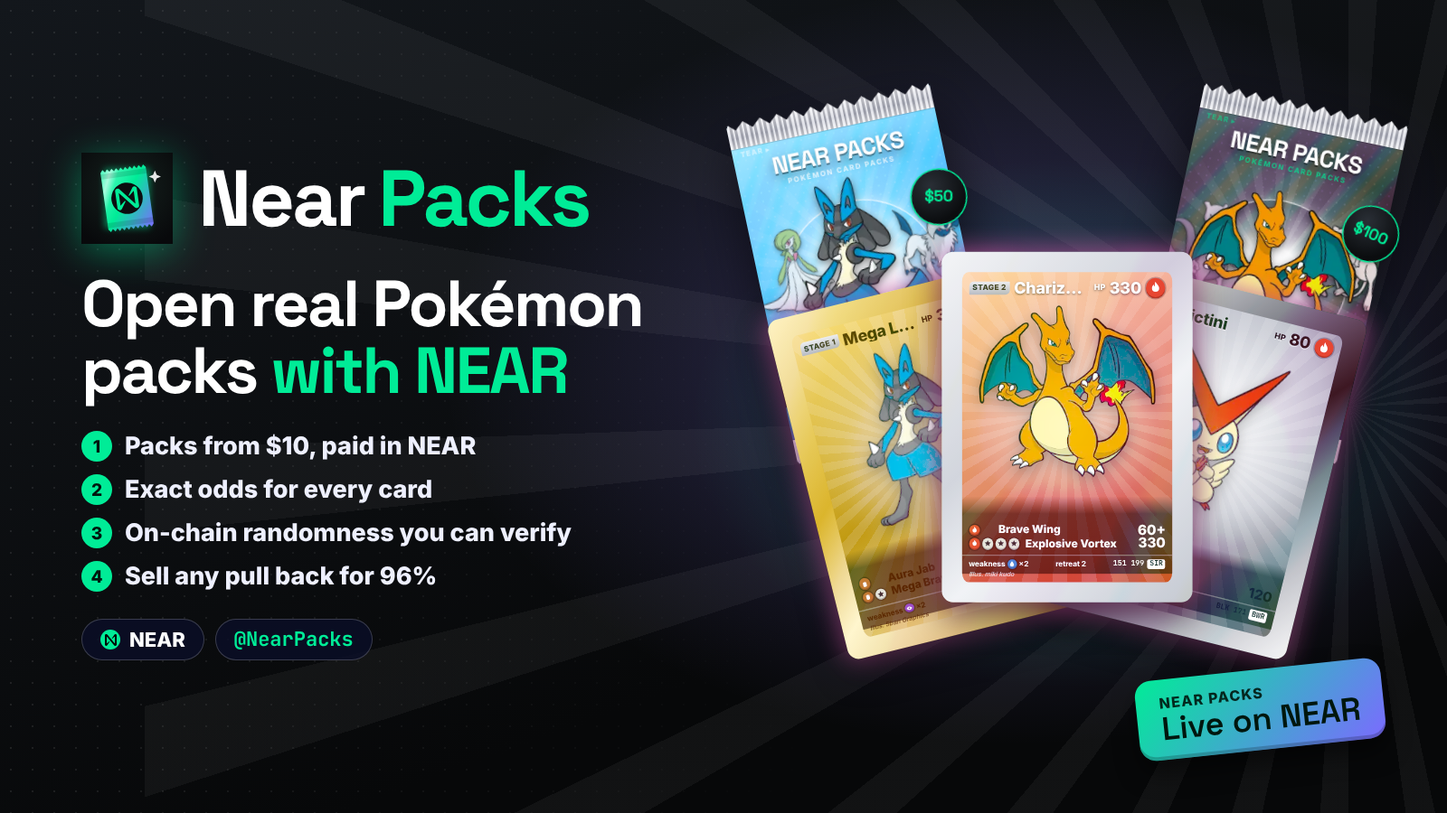
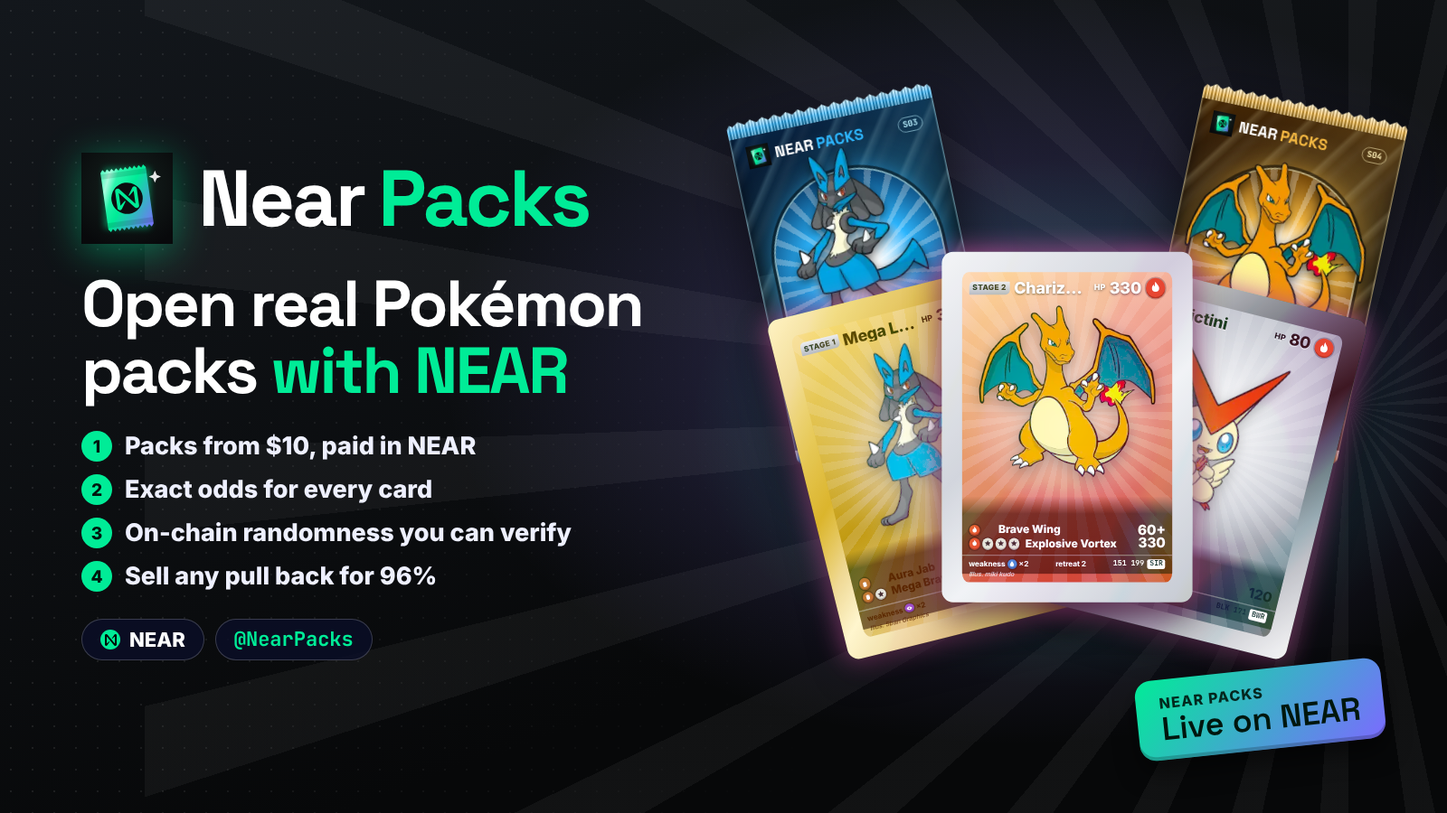
New booster pack art and no demo mode
- Packs: dark tier-coloured foil, Near Packs header, hero Pokémon breaking out of an arched window, big tier name, gem pips. Legend is now gold.
- Removed every demo/preview text, the demo wallet and sample ranks; without the server packs stay closed.

Claude-Session: https://claude.ai/code/session_01CKizwNUuLhvCqaYYh9hKp6

Changed region(s): [[0.5, 0.0933, 0.6875, 0.4044], [0.8125, 0.0933, 0.9688, 0.4044]]

diff --git a/js/app.js b/js/app.js
@@ -54,8 +54,8 @@
     var frac = String(v % unit).padStart(24, '0').slice(0, 4).replace(/0+$/, '');
     return (v / unit).toLocaleString('en-US') + (frac ? '.' + frac : '');
   }
-  function payReady() { return store.mode !== 'live' || store.isDev() || (store.game && store.game.ready); }
-  function buybackReady() { return store.mode !== 'live' || store.isDev() || (store.game && store.game.ready && store.game.buyback); }
+  function payReady() { return store.mode === 'live' && (store.isDev() || (store.game && store.game.ready)); }
+  function buybackReady() { return store.mode === 'live' && (store.isDev() || (store.game && store.game.ready && store.game.buyback)); }
   function seriesOf(card) { return D.seriesById[card.series]; }
 
   var COIN = '<span class="coin" aria-hidden="true">N</span>';
@@ -180,16 +180,16 @@
     return face.replace(/^<div class="/, '<div class="' + cls).slice(0, -6) + extras + '</div>';
   }
 
-  // Booster wrapper look per pack tier: foil colours, hero Pokémon and two companions behind it.
+  // Booster wrapper look per pack tier: foil colours and the hero Pokémon that breaks out of the window.
   var PACK_LOOK = {
-    starter: { hero: 25, side: [1, 7], foil: ['#7dffcb', '#00ec97', '#00744a'], ink: '#00170e', stars: 1, label: 'Starter' },
-    rare: { hero: 94, side: [92, 93], foil: ['#cfc7ff', '#8b7bff', '#2c1f86'], ink: '#ffffff', stars: 2, label: 'Rare' },
-    elite: { hero: 448, side: [282, 359], foil: ['#a8ecff', '#2db7ff', '#08376a'], ink: '#ffffff', stars: 3, label: 'Elite' },
-    legend: { hero: 6, side: [150, 151], foil: ['#5a6270', '#1b1f25', '#050607'], ink: '#00ec97', stars: 4, label: 'Legend' }
+    starter: { hero: 25, foil: ['#7dffcb', '#00ec97', '#004d31'], gems: 1, label: 'Starter', no: '01' },
+    rare: { hero: 94, foil: ['#d9d2ff', '#8b7bff', '#241866'], gems: 2, label: 'Rare', no: '02' },
+    elite: { hero: 448, foil: ['#b9f0ff', '#2db7ff', '#062d57'], gems: 3, label: 'Elite', no: '03' },
+    legend: { hero: 6, foil: ['#fff0b8', '#f5b942', '#5a3200'], gems: 4, label: 'Legend', no: '04' }
   };
-  // Zig-zag crimp along the top and bottom of the wrapper.
+  // Fine serrated seal along the top and bottom edge.
   var CRIMP = (function () {
-    var pts = [], teeth = 24, depth = 2.2;
+    var pts = [], teeth = 34, depth = 1.1;
     for (var i = 0; i <= teeth; i++) pts.push((i * 100 / teeth).toFixed(2) + '% ' + (i % 2 ? depth : 0) + '%');
     for (var j = teeth; j >= 0; j--) pts.push((j * 100 / teeth).toFixed(2) + '% ' + (100 - (j % 2 ? depth : 0)) + '%');
     return 'polygon(' + pts.join(',') + ')';
@@ -197,26 +197,19 @@
 
   function packArtHTML(p) {
     var look = PACK_LOOK[p.id] || PACK_LOOK.starter;
-    var stars = '';
-    for (var i = 0; i < 4; i++) stars += '<i class="' + (i < look.stars ? 'on' : '') + '">★</i>';
-    return '<div class="booster" style="--f1:' + look.foil[0] + ';--f2:' + look.foil[1] + ';--f3:' + look.foil[2] + ';--ink:' + look.ink + '">' +
+    var gems = '';
+    for (var i = 0; i < 4; i++) gems += '<i class="' + (i < look.gems ? 'on' : '') + '"></i>';
+    return '<div class="booster np-' + p.id + '" style="--f1:' + look.foil[0] + ';--f2:' + look.foil[1] + ';--f3:' + look.foil[2] + '">' +
       '<div class="bw" style="clip-path:' + CRIMP + '">' +
-        '<div class="bw-rays"></div><div class="bw-holo"></div>' +
-        '<div class="bw-crimp top"></div><div class="bw-crimp bottom"></div>' +
-        '<div class="bw-tear">TEAR ▸</div>' +
-        '<div class="bw-logo"><span>NEAR PACKS</span><small>Pokémon card packs</small></div>' +
-        '<div class="bw-stage">' +
-          '<span class="bw-ring"></span>' +
-          '<img class="bw-side l" src="' + artUrl(look.side[0]) + '" alt="" decoding="async">' +
-          '<img class="bw-side r" src="' + artUrl(look.side[1]) + '" alt="" decoding="async">' +
-          '<img class="bw-hero" src="' + artUrl(look.hero) + '" alt="" decoding="async">' +
-        '</div>' +
-        '<div class="bw-ribbon"><span>' + esc(look.label) + ' Pack</span></div>' +
-        '<div class="bw-stars">' + stars + '</div>' +
-        '<div class="bw-foot">1 CARD · EV ' + usd(p.ev) + '</div>' +
+        '<div class="bw-foil"></div><div class="bw-mono">N</div>' +
+        '<div class="bw-seal top"></div><div class="bw-seal bottom"></div>' +
+        '<div class="bw-head"><img src="assets/brand/nearpacks-icon.svg" alt=""><span>NEAR<b>PACKS</b></span><em>S' + look.no + '</em></div>' +
+        '<div class="bw-window"><span class="bw-rays"></span><span class="bw-orb"></span></div>' +
+        '<img class="bw-hero" src="' + artUrl(look.hero) + '" alt="" decoding="async">' +
+        '<div class="bw-name"><small>Pokémon card pack</small><span>' + esc(look.label) + '</span></div>' +
+        '<div class="bw-meta"><span class="bw-gems">' + gems + '</span><span>1 CARD · ' + usd(p.usd) + '</span></div>' +
         '<div class="bw-sheen"></div>' +
       '</div>' +
-      '<div class="bw-price"><b>' + usd(p.usd) + '</b></div>' +
     '</div>';
   }
 
@@ -276,13 +269,12 @@
         return '<a href="' + link(n[0]) + '"' + (ui.route === n[0] ? ' aria-current="page"' : '') + '>' + n[1] + (n[0] === 'vault' && st.vault.length ? ' <span class="nav-count num">' + st.vault.length + '</span>' : '') + '</a>';
       }).join('') + '</nav>' : '<nav class="nav" aria-label="Main"><a href="' + link('docs') + '"' + (ui.route === 'docs' ? ' aria-current="page"' : '') + '>Docs</a></nav>';
     var right = u
-      ? '<div class="balance" title="' + D.TOKEN + ' in your wallet">' + COIN + '<span class="num">' + (store.mode === 'live' ? (ui.balance ? fmtToken(ui.balance.amount, ui.balance.decimals) : '—') : 'Demo') + '</span><span class="muted bal-label">' + D.TOKEN + '</span></div>' +
+      ? '<div class="balance" title="' + D.TOKEN + ' in your wallet">' + COIN + '<span class="num">' + (store.mode === 'live' ? (ui.balance ? fmtToken(ui.balance.amount, ui.balance.decimals) : '—') : '—') + '</span><span class="muted bal-label">' + D.TOKEN + '</span></div>' +
         '<div class="user-chip" title="' + esc(u.address) + '">' + CHAIN_BADGE[u.chain] + '<span class="uh num">' + esc(u.name) + '</span></div>' +
         '<button class="btn btn-sm btn-ghost" data-act="logout">Log out</button>'
       : '<button class="btn btn-gold btn-sm" data-act="connect">' + WALLET_SVG + 'Connect wallet</button>';
     return '<header class="topbar"><div class="wrap">' +
       '<a class="brand" href="' + link('') + '"><img class="brand-icon" src="assets/brand/nearpacks-icon.svg" alt="" width="36" height="36"><span class="brand-name">Near<b>Packs</b></span></a>' +
-      (store.mode === 'local' ? '<span class="mode-pill" title="No server connected. Progress is saved in this browser only.">Demo</span>' : '') +
       nav + '<div class="top-right">' + right + '</div></div></header>';
   }
 
@@ -357,7 +349,6 @@
         '<div class="pull-info">' +
           '<div><div class="eyebrow">Pokémon TCG · ' + p.pool.length + ' cards from ' + usd(p.min) + ' to ' + usd(p.top[0].usd) + ' · ' + (st.pulls[p.id] || 0) + ' opened</div><h2>' + esc(p.name) + '</h2></div>' +
           '<div class="pull-buttons">' + buttons + '</div>' +
-          (store.mode === 'local' ? '<p class="demo-note">Preview: packs open free here and use browser randomness. On the live site you pay in NEAR and the randomness is drawn on chain in that payment.</p>' : '') +
           packStatsHTML(p) +
           '<div><div class="eyebrow" style="margin-bottom:10px">Top hits · <button class="linkish" data-act="pack-odds" data-id="' + p.id + '">See all top tier</button></div><div class="chase-row">' +
             p.top.slice(0, 6).map(function (c) { return slotHTML(c, { chance: chanceOf(p, c.id) }); }).join('') + '</div></div>' +
@@ -399,27 +390,20 @@
   }
 
   /* ---------- leaderboard ---------- */
-  var SAMPLE = [
-    ['near', 'charcollector.near', 2840, 41], ['near', 'holohunter.near', 1915, 33], ['near', '9f2c…a71e', 1290, 26],
-    ['near', 'packripper.tg', 948, 21], ['near', 'mewtwo.near', 612, 14], ['near', 'sirseeker.near', 402, 9],
-    ['near', 'b04d…11c9', 215, 6], ['near', 'gengar.near', 64, 3]
-  ];
   function ranksHTML() {
     var st = store.state;
     var me = { name: st.user.name, chain: st.user.chain, score: engine.vaultValue(st), cards: st.vault.length, me: true };
-    var rows, isSample = false;
+    var rows;
     if (ui.leaderboard) {
       rows = ui.leaderboard.map(function (r) { return { name: r.name, chain: r.chain, score: r.score, cards: r.cards, me: r.address === st.user.address && r.chain === st.user.chain }; });
     } else {
-      isSample = true;
-      rows = SAMPLE.map(function (r) { return { name: r[1], chain: r[0], score: r[2], cards: r[3], sample: true }; }).concat([me]);
+      rows = [me];
     }
     rows.sort(function (a, b) { return b.score - a.score; });
     return '<section class="section-head"><div><div class="eyebrow">Vault value</div><h2 class="page-title">Ranks</h2></div><span class="muted small">Ranked by the estimated value of the cards each collector holds</span></section>' +
-      (isSample ? '<p class="demo-note">Demo mode: rows marked Sample are placeholders. With the server running, this table lists real collectors.</p>' : '') +
       '<section class="panel table-scroll" style="padding:8px 12px"><table class="lb"><thead><tr><th>#</th><th>Collector</th><th class="num">Cards</th><th class="num">Vault value</th></tr></thead><tbody>' +
       rows.map(function (r, i) {
-        return '<tr' + (r.me ? ' class="me"' : '') + '><td class="rank">' + (i + 1) + '</td><td><div class="who">' + CHAIN_BADGE[r.chain] + '<div><b class="num">' + esc(r.name) + '</b>' + (r.me ? ' <span class="muted">(you)</span>' : '') + (r.sample ? ' <span class="sample">Sample</span>' : '') + '<div class="muted small">' + A.CHAINS[r.chain].name + '</div></div></div></td>' +
+        return '<tr' + (r.me ? ' class="me"' : '') + '><td class="rank">' + (i + 1) + '</td><td><div class="who">' + CHAIN_BADGE[r.chain] + '<div><b class="num">' + esc(r.name) + '</b>' + (r.me ? ' <span class="muted">(you)</span>' : '') + '<div class="muted small">' + A.CHAINS[r.chain].name + '</div></div></div></td>' +
           '<td class="num">' + r.cards + '</td><td class="num"><b>' + usd(r.score) + '</b></td></tr>';
       }).join('') + '</tbody></table></section>';
   }
@@ -850,7 +834,6 @@
       '<p class="muted small">Near Packs runs on NEAR. Sign one message to prove you own the wallet. It does not send a transaction or cost any fee.</p>' +
       '<section><div class="eyebrow">' + CHAIN_BADGE.near + ' NEAR</div><ul class="wallet-list">' + near + '</ul></section>' +
       '<div class="err" id="connect-err" role="alert"></div>' +
-      (store.mode === 'local' ? '<div class="demo-wallet"><span class="muted small">No wallet in this browser? This preview can use a throwaway demo address.</span><button class="btn btn-sm" data-act="wallet-demo">Use demo wallet</button></div>' : '') +
       '<div class="modal-actions"><button type="button" class="btn btn-ghost" data-act="close-modal">Cancel</button></div>' +
       '</div></div>';
   }
@@ -929,7 +912,7 @@
   }
 
   function rngSourceName(user) {
-    if (store.mode !== 'live') return 'Demo randomness';
+    if (store.mode !== 'live') return 'On-chain randomness';
     if (store.isDev()) return 'Dev opening · ' + user.address;
     return 'Paid on NEAR · ' + D.GAME_ACCOUNT;
   }
@@ -1017,7 +1000,7 @@
     if (!proof) return '';
     var check = engine.cardsFromRandomness(packId, count, proof.randomness, proof.seed).map(function (c) { return c.id; });
     var ok = ids.length === check.length && ids.every(function (id, i) { return id === check[i]; });
-    var src = proof.source === 'near-transfer' ? 'Paid to ' + (proof.ref || D.TREASURY) + ' · block randomness' : proof.source === 'nearpacks-near' || proof.source === 'near-rng' ? 'Paid on NEAR · ' + (proof.ref || D.GAME_ACCOUNT) : proof.source === 'dev' ? 'Dev opening · server randomness, not paid' : proof.source === 'orao-vrf' ? 'ORAO VRF · Solana' : 'Demo randomness (off-chain preview)';
+    var src = proof.source === 'near-transfer' ? 'Paid to ' + (proof.ref || D.TREASURY) + ' · block randomness' : proof.source === 'nearpacks-near' || proof.source === 'near-rng' ? 'Paid on NEAR · ' + (proof.ref || D.GAME_ACCOUNT) : proof.source === 'dev' ? 'Dev opening · server randomness, not paid' : proof.source === 'orao-vrf' ? 'ORAO VRF · Solana' : 'Off-chain randomness';
     var ex = W.explorer(proof, CFG.nearNetwork);
     var links = ex ? (ex.tx ? '<a href="' + esc(ex.tx) + '" target="_blank" rel="noopener">Transaction on ' + ex.label + '</a>' : '') +
       (ex.account ? '<a href="' + esc(ex.account) + '" target="_blank" rel="noopener">' + (proof.source === 'near-transfer' ? 'Treasury' : 'Interaction wallet') + '</a>' : '') : '';
@@ -1047,7 +1030,7 @@
       var direct = !!(pay && pay.method === 'transfer');
       var steps = [
         [o.status === 'wallet' || o.status === 'checking' ? 'active' : o.status === 'error' ? 'error' : 'done',
-          live ? 'Pay ' + usd(p.usd * o.count) + (pay && pay.deposit ? ' = ' + fmtNear(pay.deposit) + ' NEAR' : ' in NEAR') : store.isDev() ? 'Dev wallet: no payment needed' : 'Demo: nothing is paid in this preview',
+          live ? 'Pay ' + usd(p.usd * o.count) + (pay && pay.deposit ? ' = ' + fmtNear(pay.deposit) + ' NEAR' : ' in NEAR') : store.isDev() ? 'Dev wallet: no payment needed' : 'Pay in NEAR',
           live ? (o.status === 'checking' ? 'Checking the chain for your payment…' : 'Approve one ' + (direct ? 'transfer to ' + esc(pay.receiver) : 'transaction to ' + D.GAME_ACCOUNT) + ' in ' + esc(walletName) + ' (plus a tiny gas fee). Price from the live NEAR market.') : store.isDev() ? 'Packs opened by ' + esc(u.address) + ' are free and recorded as dev openings' : 'This preview is not connected to a chain'],
         [o.status === 'waiting' || o.status === 'slow' ? 'active' : 'todo', 'Randomness drawn on chain',
           o.status === 'slow' ? 'Taking longer than usual. Your pack is saved; check again in a moment.' : (live ? (direct ? 'From the hash of the block that includes your payment' : 'The ' + D.GAME_ACCOUNT + ' contract draws it in the same transaction') : store.isDev() ? 'Server randomness' : 'Browser randomness')]
@@ -1135,7 +1118,7 @@
   function closeOpening() { ui.opening = null; renderOverlay(); render(); }
 
   function soldToast(r) {
-    toast('Sold back for ' + usd(r.usd) + (r.payout && r.payout.amount ? ', paid in ' + D.TOKEN + ' to your wallet.' : r.payout && r.payout.dev ? ' (dev wallet, recorded only).' : ' (demo, nothing paid).'));
+    toast('Sold back for ' + usd(r.usd) + (r.payout && r.payout.amount ? ', paid in ' + D.TOKEN + ' to your wallet.' : r.payout && r.payout.dev ? ' (dev wallet, recorded only).' : '.'));
     refreshBalance();
   }
   function sell(uids, onDone) {
@@ -1164,7 +1147,6 @@
     switch (act) {
       case 'connect': openConnect(); break;
       case 'wallet-near': signIn('near', W.nearSigner(id, el.getAttribute('data-name')), el.getAttribute('data-name')); break;
-      case 'wallet-demo': signIn('near', W.demoSigner(), 'Demo wallet'); break;
       case 'close-modal': if (e.target === el || el.tagName === 'BUTTON') closeModal(); break;
       case 'logout': store.logout().then(function () { toast('Logged out.'); }); break;
       case 'doc-jump':

diff --git a/css/style.css b/css/style.css
@@ -524,54 +524,53 @@ footer .wrap { display: flex; justify-content: space-between; gap: 12px; flex-wr
 }
 
 /* ---------- Booster wrapper (pack cover) ---------- */
-.booster { --f1: #ffe14d; --f2: #f7a51c; --f3: #c4560f; --ink: #3a1d00; position: relative; width: 100%; max-width: 100%; aspect-ratio: 5 / 8.4; container-type: inline-size; filter: drop-shadow(0 14px 22px rgba(0, 0, 0, 0.55)); }
-.bw { position: absolute; inset: 0; overflow: hidden; border-radius: 3% / 2%;
+.booster { --f1: #7dffcb; --f2: #00ec97; --f3: #004d31; position: relative; width: 100%; max-width: 100%; aspect-ratio: 5 / 8.4; container-type: inline-size; filter: drop-shadow(0 14px 22px rgba(0, 0, 0, 0.6)); }
+.bw { position: absolute; inset: 0; overflow: hidden; border-radius: 4% / 2.4%;
   background:
-    radial-gradient(120% 60% at 50% 46%, color-mix(in srgb, var(--f1) 70%, #fff) 0%, transparent 55%),
-    linear-gradient(165deg, var(--f1) 0%, var(--f2) 42%, var(--f3) 100%);
+    radial-gradient(90% 50% at 50% 42%, color-mix(in srgb, var(--f2) 55%, transparent), transparent 70%),
+    linear-gradient(170deg, color-mix(in srgb, var(--f3) 85%, #000) 0%, #07080a 48%, color-mix(in srgb, var(--f3) 75%, #000) 100%);
+  box-shadow: inset 0 0 0 0.6cqi color-mix(in srgb, var(--f1) 45%, transparent), inset 0 0 6cqi rgba(0, 0, 0, 0.6);
 }
-.bw-rays { position: absolute; inset: 0; background: repeating-conic-gradient(from 0deg at 50% 50%, rgba(255, 255, 255, 0.16) 0 5deg, transparent 5deg 13deg); -webkit-mask-image: radial-gradient(circle at 50% 50%, #000 15%, transparent 72%); mask-image: radial-gradient(circle at 50% 50%, #000 15%, transparent 72%); }
-.bw-holo { position: absolute; inset: 0; mix-blend-mode: color-dodge; opacity: 0.35;
+/* holographic diagonal foil, tinted by tier */
+.bw-foil { position: absolute; inset: 0; opacity: 0.55; mix-blend-mode: screen;
   background:
-    repeating-linear-gradient(120deg, rgba(255, 0, 150, 0.35) 0 3%, rgba(0, 220, 255, 0.35) 6%, rgba(255, 240, 0, 0.35) 9%, rgba(0, 255, 140, 0.35) 12%, rgba(255, 0, 150, 0.35) 15%),
-    radial-gradient(rgba(255, 255, 255, 0.5) 0.6px, transparent 0.8px) 0 0 / 4% 2.5%;
+    repeating-linear-gradient(125deg, transparent 0 4%, color-mix(in srgb, var(--f1) 30%, transparent) 5%, transparent 7%, rgba(255, 255, 255, 0.07) 9%, transparent 11%),
+    linear-gradient(125deg, transparent 20%, color-mix(in srgb, var(--f2) 35%, transparent) 50%, transparent 80%);
 }
-.bw-crimp { position: absolute; left: 0; right: 0; height: 7.5%; z-index: 3;
+.bw-mono { position: absolute; z-index: 1; left: -8%; bottom: 6%; font: 700 110cqi/0.8 var(--f-display); color: color-mix(in srgb, var(--f1) 7%, transparent); letter-spacing: -0.06em; pointer-events: none; }
+.bw-seal { position: absolute; left: 0; right: 0; height: 4.6%; z-index: 4;
   background:
-    repeating-linear-gradient(90deg, rgba(255, 255, 255, 0.55) 0 1.2%, rgba(0, 0, 0, 0.18) 1.2% 2.4%),
-    linear-gradient(180deg, #f4f4f8, #b9bccb 60%, #e9eaf0);
-  box-shadow: 0 0 0 1px rgba(0, 0, 0, 0.15);
+    repeating-linear-gradient(90deg, rgba(255, 255, 255, 0.35) 0 0.8%, rgba(0, 0, 0, 0.25) 0.8% 1.6%),
+    linear-gradient(180deg, color-mix(in srgb, var(--f1) 80%, #fff), var(--f2) 55%, color-mix(in srgb, var(--f2) 70%, #000));
 }
-.bw-crimp.top { top: 0; }
-.bw-crimp.bottom { bottom: 0; }
-.bw-tear { position: absolute; z-index: 4; top: 8.6%; left: 4%; font: 900 clamp(4px, 3.4cqi, 9px)/1 var(--f-body); letter-spacing: 0.14em; color: var(--ink); opacity: 0.55; }
-.bw-logo { position: absolute; z-index: 4; top: 11%; left: 0; right: 0; display: grid; justify-items: center; gap: 0.2em; }
-.bw-logo span { font: 700 clamp(11px, 11.5cqi, 36px)/1 var(--f-display); letter-spacing: -0.02em; color: #fff; text-shadow: 0 0.06em 0 rgba(0, 0, 0, 0.35), 0 0.2em 0.5em rgba(0, 0, 0, 0.35); }
-.bw-logo small { font: 700 clamp(4px, 3.4cqi, 10px)/1 var(--f-body); letter-spacing: 0.2em; text-transform: uppercase; color: var(--ink); opacity: 0.75; }
-.bw-stage { position: absolute; z-index: 2; left: 0; right: 0; top: 24%; height: 52%; }
-.bw-ring { position: absolute; left: 50%; top: 52%; width: 74%; aspect-ratio: 1; transform: translate(-50%, -50%); border-radius: 50%;
-  background: radial-gradient(circle, rgba(255, 255, 255, 0.95) 0 28%, rgba(255, 255, 255, 0.35) 46%, transparent 66%);
-  box-shadow: 0 0 0 0.6cqi rgba(255, 255, 255, 0.55), 0 0 6cqi rgba(255, 255, 255, 0.6);
+.bw-seal.top { top: 0; }
+.bw-seal.bottom { bottom: 0; }
+.bw-head { position: absolute; z-index: 5; top: 7.5%; left: 7%; right: 7%; display: flex; align-items: center; gap: 2.4cqi; }
+.bw-head img { width: 11cqi; height: 11cqi; flex: none; }
+.bw-head span { font: 700 clamp(7px, 7.4cqi, 22px)/1 var(--f-display); letter-spacing: 0.02em; color: #fff; }
+.bw-head span b { color: var(--f2); margin-left: 0.18em; font-weight: 700; }
+.bw-head em { margin-left: auto; font: 800 clamp(5px, 4cqi, 11px)/1 var(--f-mono); font-style: normal; color: var(--f1); padding: 1.2cqi 2cqi; border: 0.4cqi solid color-mix(in srgb, var(--f1) 55%, transparent); border-radius: 99px; }
+.bw-window { position: absolute; z-index: 2; left: 10%; right: 10%; top: 20%; height: 47%; border-radius: 40cqi 40cqi 6cqi 6cqi; overflow: hidden;
+  background: radial-gradient(70% 60% at 50% 55%, color-mix(in srgb, var(--f1) 70%, #fff), var(--f2) 45%, var(--f3) 100%);
+  box-shadow: 0 0 0 0.8cqi color-mix(in srgb, var(--f1) 70%, transparent), 0 0 0 2.2cqi rgba(0, 0, 0, 0.55), 0 0 10cqi color-mix(in srgb, var(--f2) 60%, transparent);
 }
-.bw-hero { position: absolute; left: 50%; top: 50%; width: 82%; max-height: 108%; object-fit: contain; transform: translate(-50%, -50%); filter: drop-shadow(0 1.6cqi 1.8cqi rgba(0, 0, 0, 0.45)); z-index: 2; }
-.bw-side { position: absolute; top: 18%; width: 38%; max-height: 60%; object-fit: contain; opacity: 0.85; filter: drop-shadow(0 1cqi 1.2cqi rgba(0, 0, 0, 0.35)) saturate(0.9); z-index: 1; }
-.bw-side.l { left: -4%; transform: rotate(-10deg); }
-.bw-side.r { right: -4%; transform: rotate(10deg) scaleX(-1); }
-.bw-ribbon { position: absolute; z-index: 4; left: -3%; right: -3%; top: 75%; display: grid; place-items: center; padding: 1.8% 0 2.2%;
-  background: linear-gradient(90deg, #0a0b0d, #1a1d22 50%, #0a0b0d); box-shadow: 0 0.8cqi 1.6cqi rgba(0, 0, 0, 0.45), inset 0 0.3cqi 0 rgba(255, 255, 255, 0.12); }
-.bw-ribbon span { font: 700 clamp(10px, 9cqi, 28px)/1 var(--f-display); letter-spacing: -0.01em; text-transform: uppercase;
-  background: linear-gradient(90deg, var(--f1), #ffffff 50%, var(--f1)); -webkit-background-clip: text; background-clip: text; color: transparent; }
-.bw-stars { position: absolute; z-index: 4; top: 84.5%; left: 0; right: 0; display: flex; justify-content: center; gap: 1.5%; font-size: clamp(6px, 6cqi, 16px); line-height: 1; }
-.bw-stars i { font-style: normal; color: rgba(0, 0, 0, 0.25); }
-.bw-stars i.on { color: #fff; text-shadow: 0 0 1.4cqi rgba(255, 255, 255, 0.9), 0 0.2cqi 0 rgba(0, 0, 0, 0.35); }
-.bw-foot { position: absolute; z-index: 4; bottom: 9%; left: 0; right: 0; text-align: center; font: 800 clamp(4px, 3.8cqi, 10px)/1 var(--f-mono); letter-spacing: 0.08em; color: var(--ink); }
-.bw-sheen { position: absolute; inset: 0; z-index: 5; pointer-events: none; mix-blend-mode: overlay;
-  background: linear-gradient(105deg, transparent 30%, rgba(255, 255, 255, 0.75) 44%, transparent 56%) -150% 0 / 250% 100% no-repeat;
+.bw-rays { position: absolute; inset: -20%; background: repeating-conic-gradient(from 0deg at 50% 60%, rgba(255, 255, 255, 0.28) 0 4deg, transparent 4deg 12deg); }
+.bw-orb { position: absolute; left: 50%; top: 60%; width: 70%; aspect-ratio: 1; transform: translate(-50%, -50%); border-radius: 50%; background: radial-gradient(circle, rgba(255, 255, 255, 0.95) 0 22%, rgba(255, 255, 255, 0.25) 50%, transparent 68%); }
+.bw-hero { position: absolute; z-index: 3; left: 50%; top: 13%; width: 88%; height: 56%; object-fit: contain; object-position: 50% 100%; transform: translateX(-50%); filter: drop-shadow(0 2cqi 2.2cqi rgba(0, 0, 0, 0.55)); }
+.bw-name { position: absolute; z-index: 5; left: 0; right: 0; top: 70%; display: grid; justify-items: center; gap: 1.4cqi; }
+.bw-name small { font: 700 clamp(4px, 3.4cqi, 10px)/1 var(--f-body); letter-spacing: 0.24em; text-transform: uppercase; color: rgba(255, 255, 255, 0.6); }
+.bw-name span { font: 700 clamp(14px, 17cqi, 52px)/0.9 var(--f-display); letter-spacing: -0.03em; text-transform: uppercase;
+  background: linear-gradient(180deg, #fff 20%, var(--f1) 60%, var(--f2)); -webkit-background-clip: text; background-clip: text; color: transparent;
+  filter: drop-shadow(0 0.8cqi 0 rgba(0, 0, 0, 0.5)); }
+.bw-meta { position: absolute; z-index: 5; left: 9%; right: 9%; bottom: 8.5%; display: flex; align-items: center; justify-content: space-between; padding-top: 2.4cqi; border-top: 0.4cqi solid rgba(255, 255, 255, 0.14);
+  font: 800 clamp(4px, 3.8cqi, 11px)/1 var(--f-mono); letter-spacing: 0.06em; color: rgba(255, 255, 255, 0.8); }
+.bw-gems { display: flex; gap: 1.4cqi; }
+.bw-gems i { width: 3.2cqi; height: 3.2cqi; transform: rotate(45deg); background: rgba(255, 255, 255, 0.16); border-radius: 0.5cqi; }
+.bw-gems i.on { background: linear-gradient(135deg, #fff, var(--f1) 45%, var(--f2)); box-shadow: 0 0 2cqi var(--f2); }
+.bw-sheen { position: absolute; inset: 0; z-index: 6; pointer-events: none; mix-blend-mode: overlay;
+  background: linear-gradient(105deg, transparent 30%, rgba(255, 255, 255, 0.8) 44%, transparent 56%) -150% 0 / 250% 100% no-repeat;
   animation: sheen 4.5s ease-in-out infinite; }
 @keyframes sheen { 0%, 55% { background-position: -150% 0; } 100% { background-position: 250% 0; } }
-.bw-price { position: absolute; z-index: 6; top: 25%; right: -6%; width: 26%; aspect-ratio: 1; border-radius: 50%; display: grid; place-items: center; transform: rotate(12deg);
-  background: radial-gradient(circle at 35% 30%, #2a2f36, #0b0d0f 70%); box-shadow: 0 0 0 0.7cqi var(--gold), 0 1cqi 2cqi rgba(0, 0, 0, 0.45); }
-.bw-price b { font: 700 clamp(8px, 7.6cqi, 22px)/1 var(--f-display); color: var(--gold); letter-spacing: -0.02em; }
 button.pack-tile:hover .bw-sheen, .big-pack .bw-sheen { animation-duration: 1.8s; }
 .stage-pack .booster { max-width: 260px; margin: 0 auto; }
 @media (prefers-reduced-motion: reduce) { .bw-sheen { animation: none; } }

diff --git a/index.html b/index.html
@@ -13,7 +13,7 @@
   <link rel="preconnect" href="https://fonts.googleapis.com">
   <link rel="preconnect" href="https://fonts.gstatic.com" crossorigin>
   <link rel="stylesheet" href="https://fonts.googleapis.com/css2?family=Inter:wght@400;500;600;700;800&family=JetBrains+Mono:wght@500;700&family=Space+Grotesk:wght@500;600;700&display=swap">
-  <link rel="stylesheet" href="css/style.css?v=20261022.5">
+  <link rel="stylesheet" href="css/style.css?v=20261022.6">
 </head>
 <body>
   <div id="app"></div>
@@ -22,13 +22,13 @@
     // nearNetwork: 'mainnet' or 'testnet' for NEAR wallet sign-in (match NEAR_NETWORK on the server).
     window.PN_CONFIG = { remoteImages: true, nearNetwork: 'mainnet' };
   </script>
-  <script src="js/cards.js?v=20261022.5"></script>
-  <script src="js/auth.js?v=20261022.5"></script>
-  <script src="js/sha256.js?v=20261022.5"></script>
-  <script src="js/data.js?v=20261022.5"></script>
-  <script src="js/engine.js?v=20261022.5"></script>
-  <script src="js/store.js?v=20261022.5"></script>
-  <script src="js/wallets.js?v=20261022.5"></script>
-  <script src="js/app.js?v=20261022.5"></script>
+  <script src="js/cards.js?v=20261022.6"></script>
+  <script src="js/auth.js?v=20261022.6"></script>
+  <script src="js/sha256.js?v=20261022.6"></script>
+  <script src="js/data.js?v=20261022.6"></script>
+  <script src="js/engine.js?v=20261022.6"></script>
+  <script src="js/store.js?v=20261022.6"></script>
+  <script src="js/wallets.js?v=20261022.6"></script>
+  <script src="js/app.js?v=20261022.6"></script>
 </body>
 </html>

diff --git a/js/wallets.js b/js/wallets.js
@@ -171,16 +171,7 @@
     return null;
   }
 
-  /* ---------- demo ---------- */
-  // Preview only: a random NEAR implicit account so the app can be tried without a wallet.
-  function demoSigner() {
-    return function () {
-      var b = new Uint8Array(32);
-      root.crypto.getRandomValues(b);
-      var hex = Array.prototype.map.call(b, function (x) { return ('0' + x.toString(16)).slice(-2); }).join('');
-      return { accountId: hex, signature: '', wallet: 'Demo wallet' };
-    };
-  }
+
 
   root.PN.wallets = {
     solanaWallets: solanaWallets,
@@ -191,7 +182,6 @@
     payRip: payRip,
     adminKeyPair: adminKeyPair,
     adminSend: adminSend,
-    explorer: explorer,
-    demoSigner: demoSigner
+    explorer: explorer
   };
 })(typeof globalThis !== 'undefined' ? globalThis : this);

diff --git a/js/data.js b/js/data.js
@@ -10,7 +10,7 @@
   'use strict';
 
   var TOKEN = 'NEAR'; // payment currency shown on the site
-  var VERSION = '20261022.5'; // shown in the footer and /api/config; bump with the ?v= in index.html
+  var VERSION = '20261022.6'; // shown in the footer and /api/config; bump with the ?v= in index.html
 
   // Packs are priced in US dollars and paid in NEAR through the Near Packs interaction wallet's
   // contract, which forwards every payment to the treasury. The NEAR amount of each pack is set on

diff --git a/README.md b/README.md
@@ -79,7 +79,7 @@ The server runs on Node 18+ and has no runtime dependencies (no `npm install` ne
 | `DEV_ACCOUNTS` | `nearpacks.near` | Wallets that open packs without paying (recorded as dev openings) |
 | `DB_FILE` | `data/db.json` | Where game state is stored |
 
-Opened as static files (no server), the site runs in **demo mode**: packs are free and use browser randomness, progress stays in the browser, and a "demo wallet" button lets people try it without a wallet.
+Without the server the site only shows packs and docs; opening packs always needs the server and a NEAR payment (no demo mode).
 
 Rebuild generated files with `npm install` then `npm run build:cards` (card data and art) or `npm run build:near` (NEAR wallet bundle, including the `open_pack` payment).
 
@@ -108,7 +108,7 @@ Rebuild the X images with `npm run build:x-header` and `npm run build:x-post` (n
 | `js/auth.js` | Sign-in message, base58, address checks (browser + server) |
 | `js/wallets.js` | NEAR Wallet Selector bridge: sign-in and rip payments |
 | `vendor/near-wallet.js` | Bundled NEAR Wallet Selector (`scripts/near-wallet-entry.js`) |
-| `js/store.js` | Picks live server or local demo backend |
+| `js/store.js` | Talks to the live server (no demo mode) |
 | `js/app.js` | UI |
 | `js/sha256.js` | SHA-256 used to derive cards (browser + server) |
 | `server/server.js`, `server/wallet-verify.js` | Static files, wallet sign-in and signature checks, game API |
